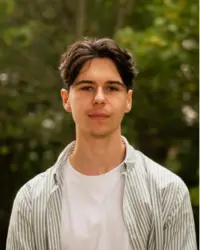
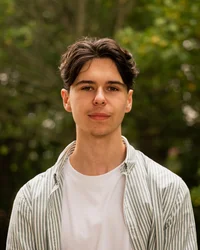
[FIX](index.html):fix picture qualitie

diff --git a/index.html b/index.html
@@ -11,8 +11,8 @@
     <link rel="preconnect" href="https://cdnjs.cloudflare.com">
 
     <link rel="stylesheet" href="style/index.css">
-    <link href="https://fonts.googleapis.com/css2?family=Poppins:wght@300;400;600;700&display=swap" rel="preconnect">
-    <link rel="preconnect" href="https://cdnjs.cloudflare.com/ajax/libs/font-awesome/6.0.0/css/all.min.css" as="style">
+    <link href="https://fonts.googleapis.com/css2?family=Poppins:wght@300;400;600;700&display=swap" rel="stylesheet">
+    <link rel="stylesheet" href="https://cdnjs.cloudflare.com/ajax/libs/font-awesome/6.0.0/css/all.min.css" as="style">
 </head>
 
 <body>
